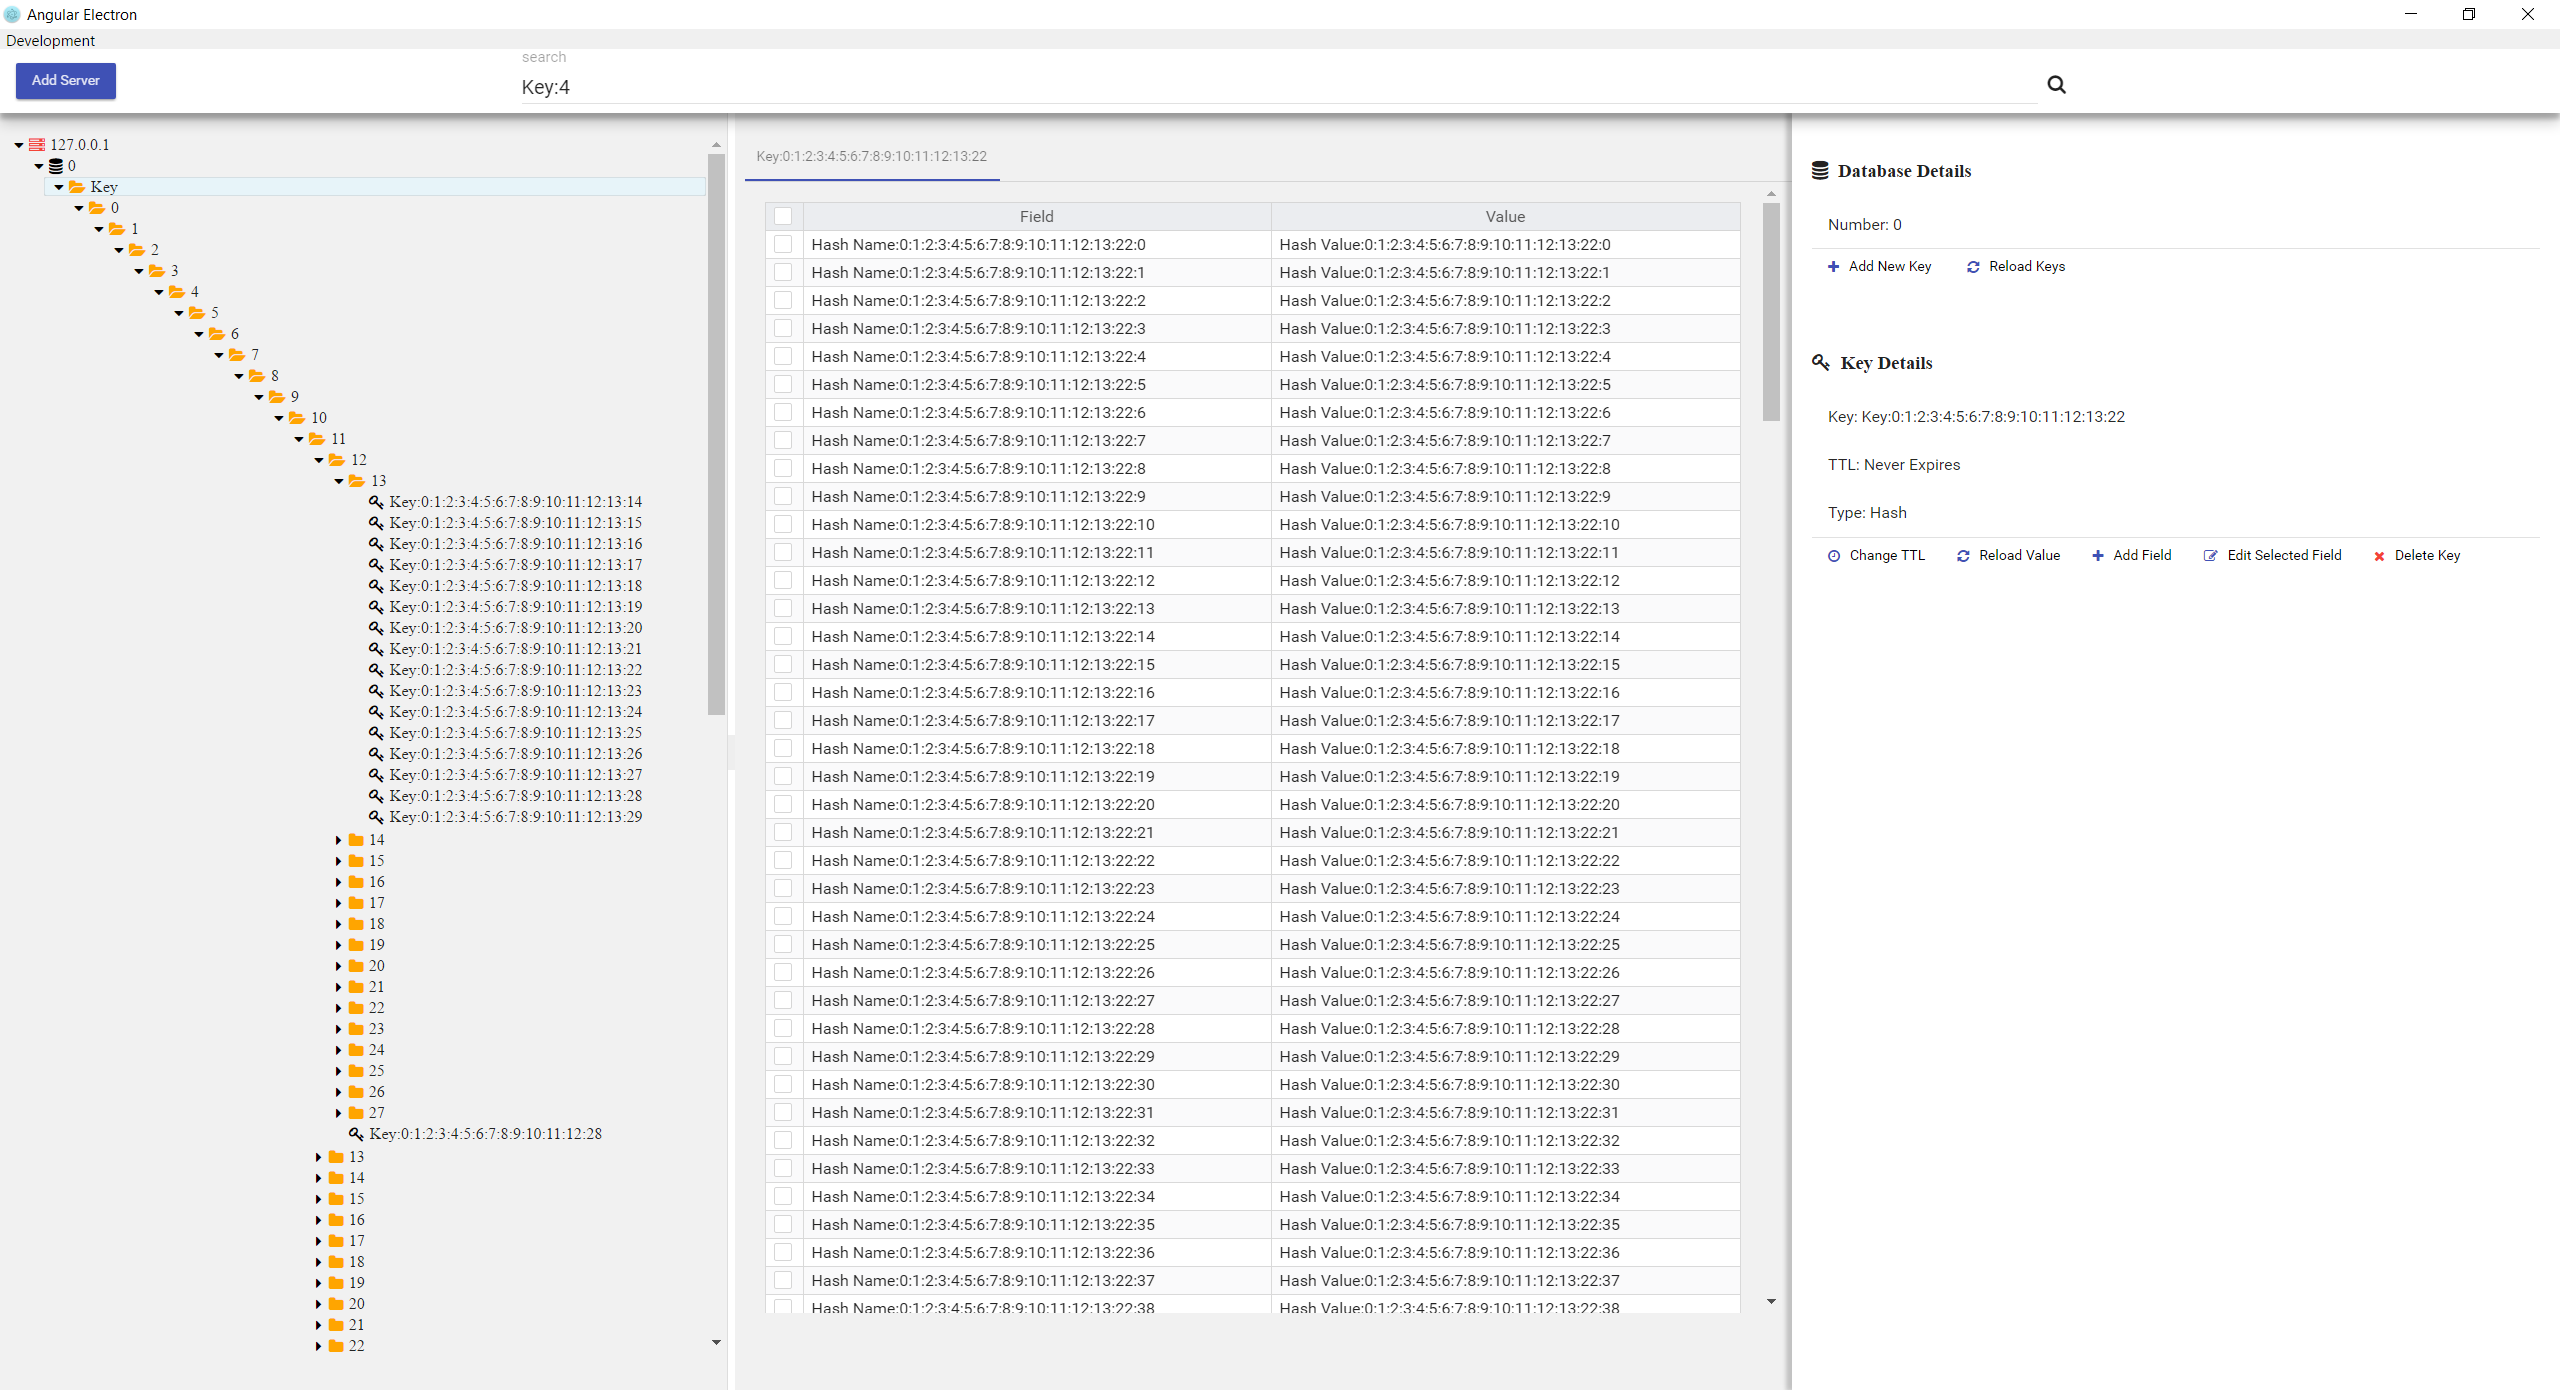
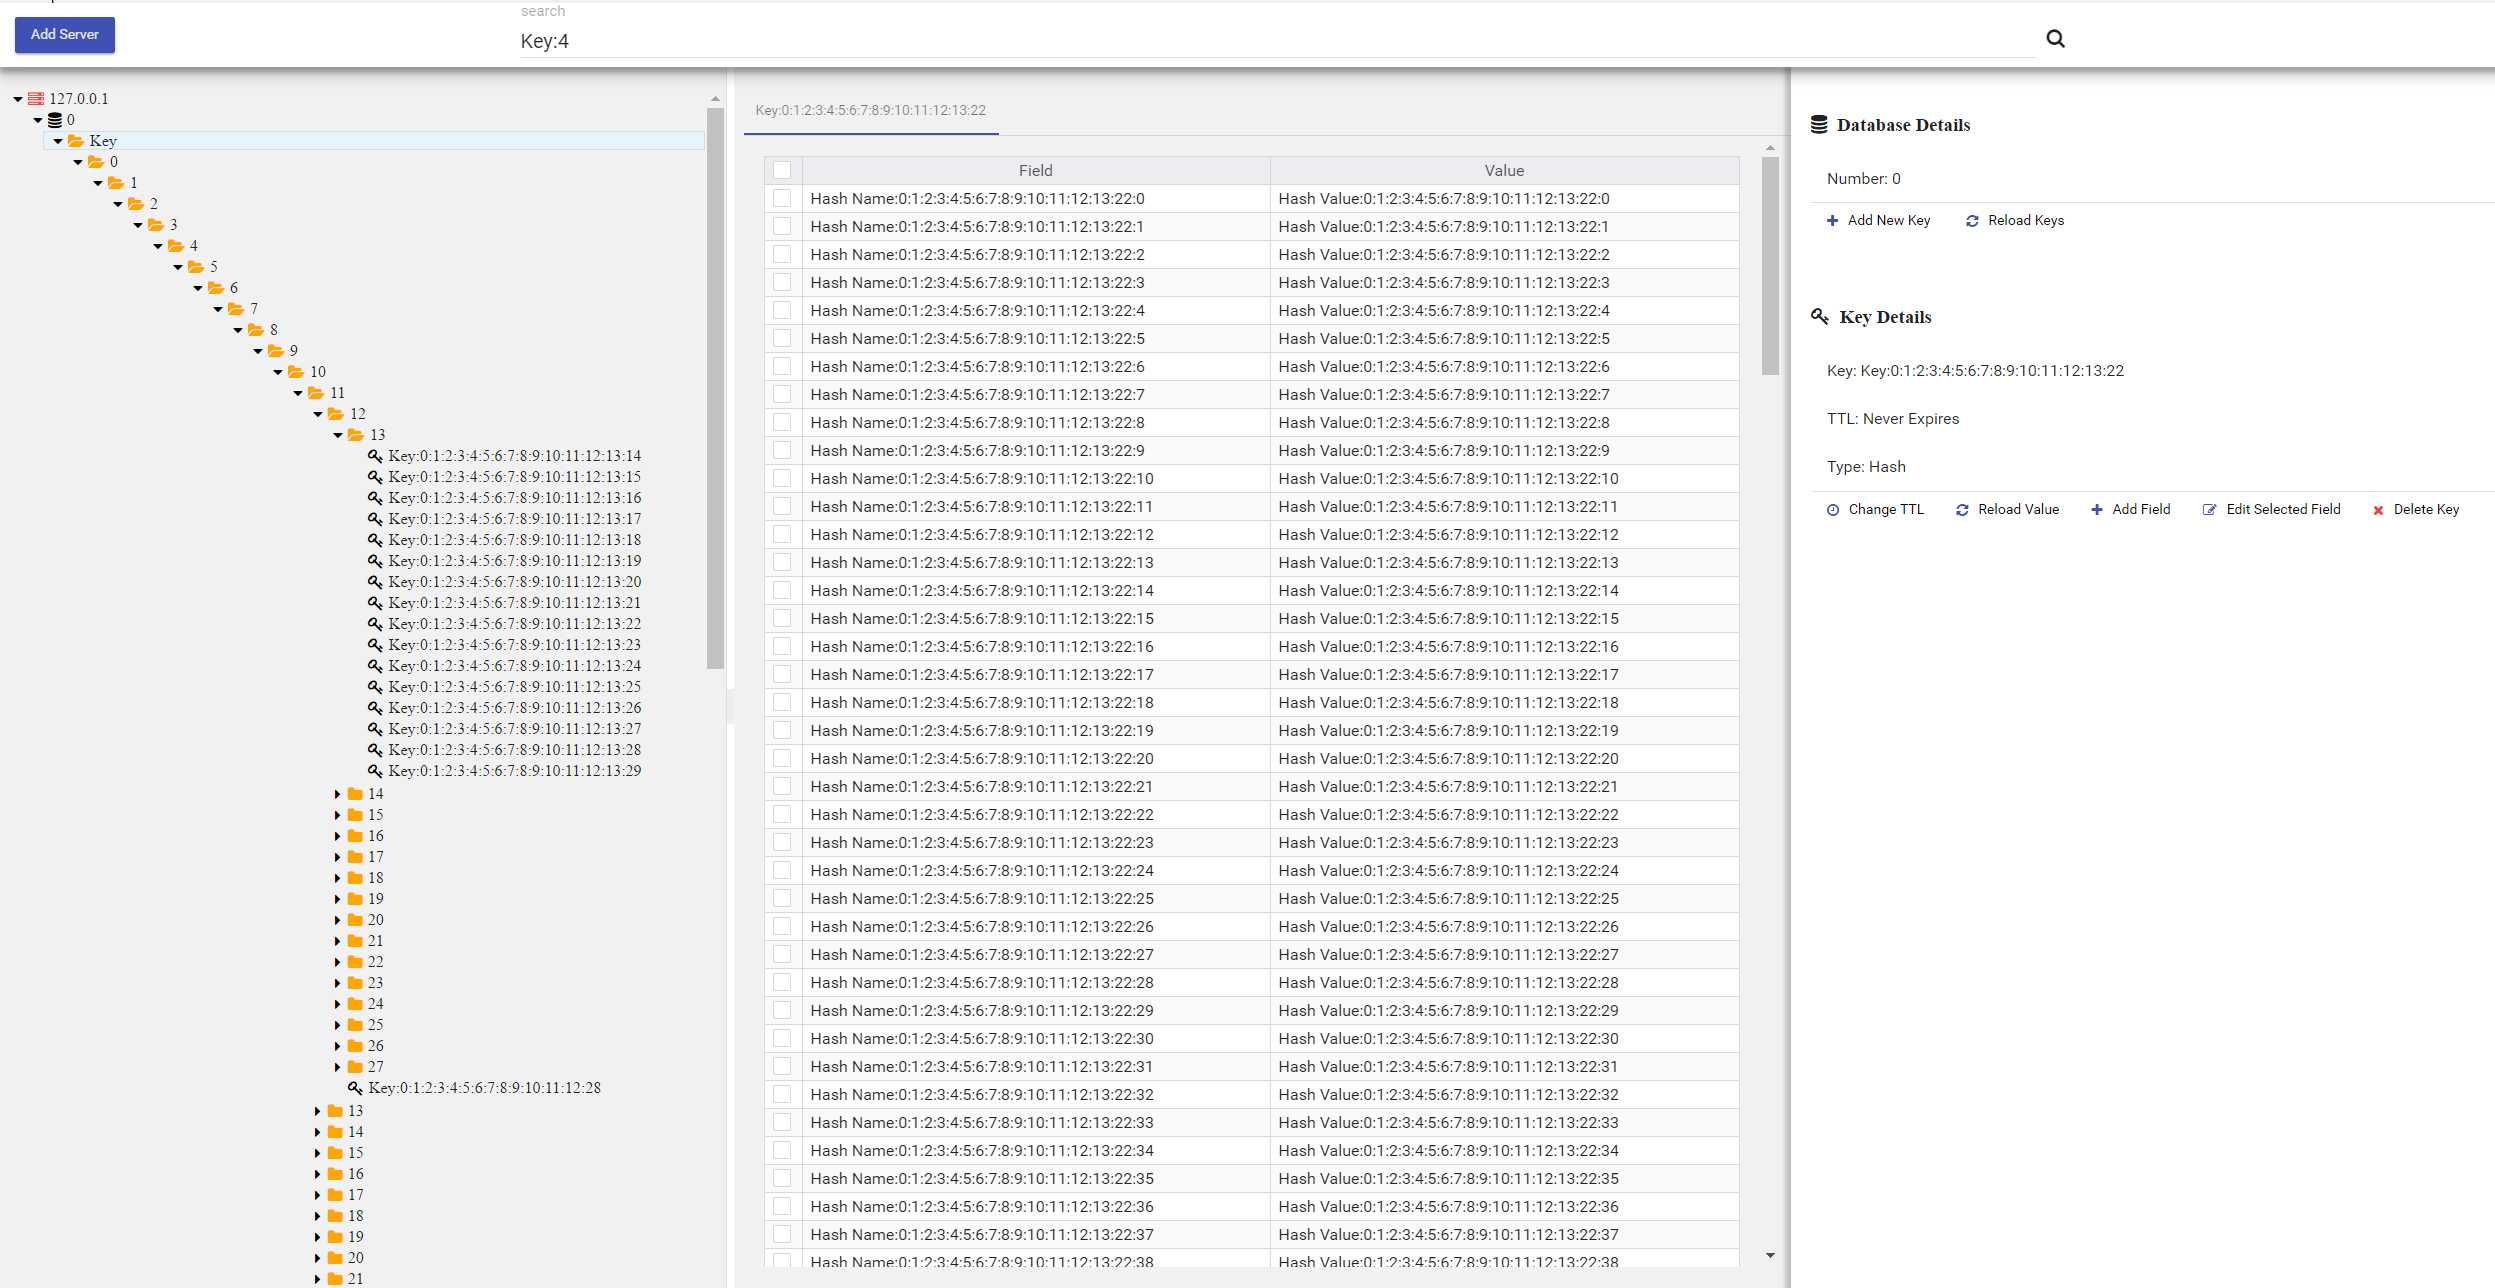
changed picture

diff --git a/index.html b/index.html
@@ -40,7 +40,7 @@
 
 			<h2 class="project-description">Free, cross-platform, open source tools for Microsoft Azure developers</h2>
 						
-			<div class="progect-image"><img src="img/azure-tables.png" height="800" width="1170" /></div>
+			<div class="progect-image"><img src="img/azure-tables.png" height="1288" width="2495" /></div>
 			
 			<div class="modules-description">
 				<ul><h3>Features</h3>
